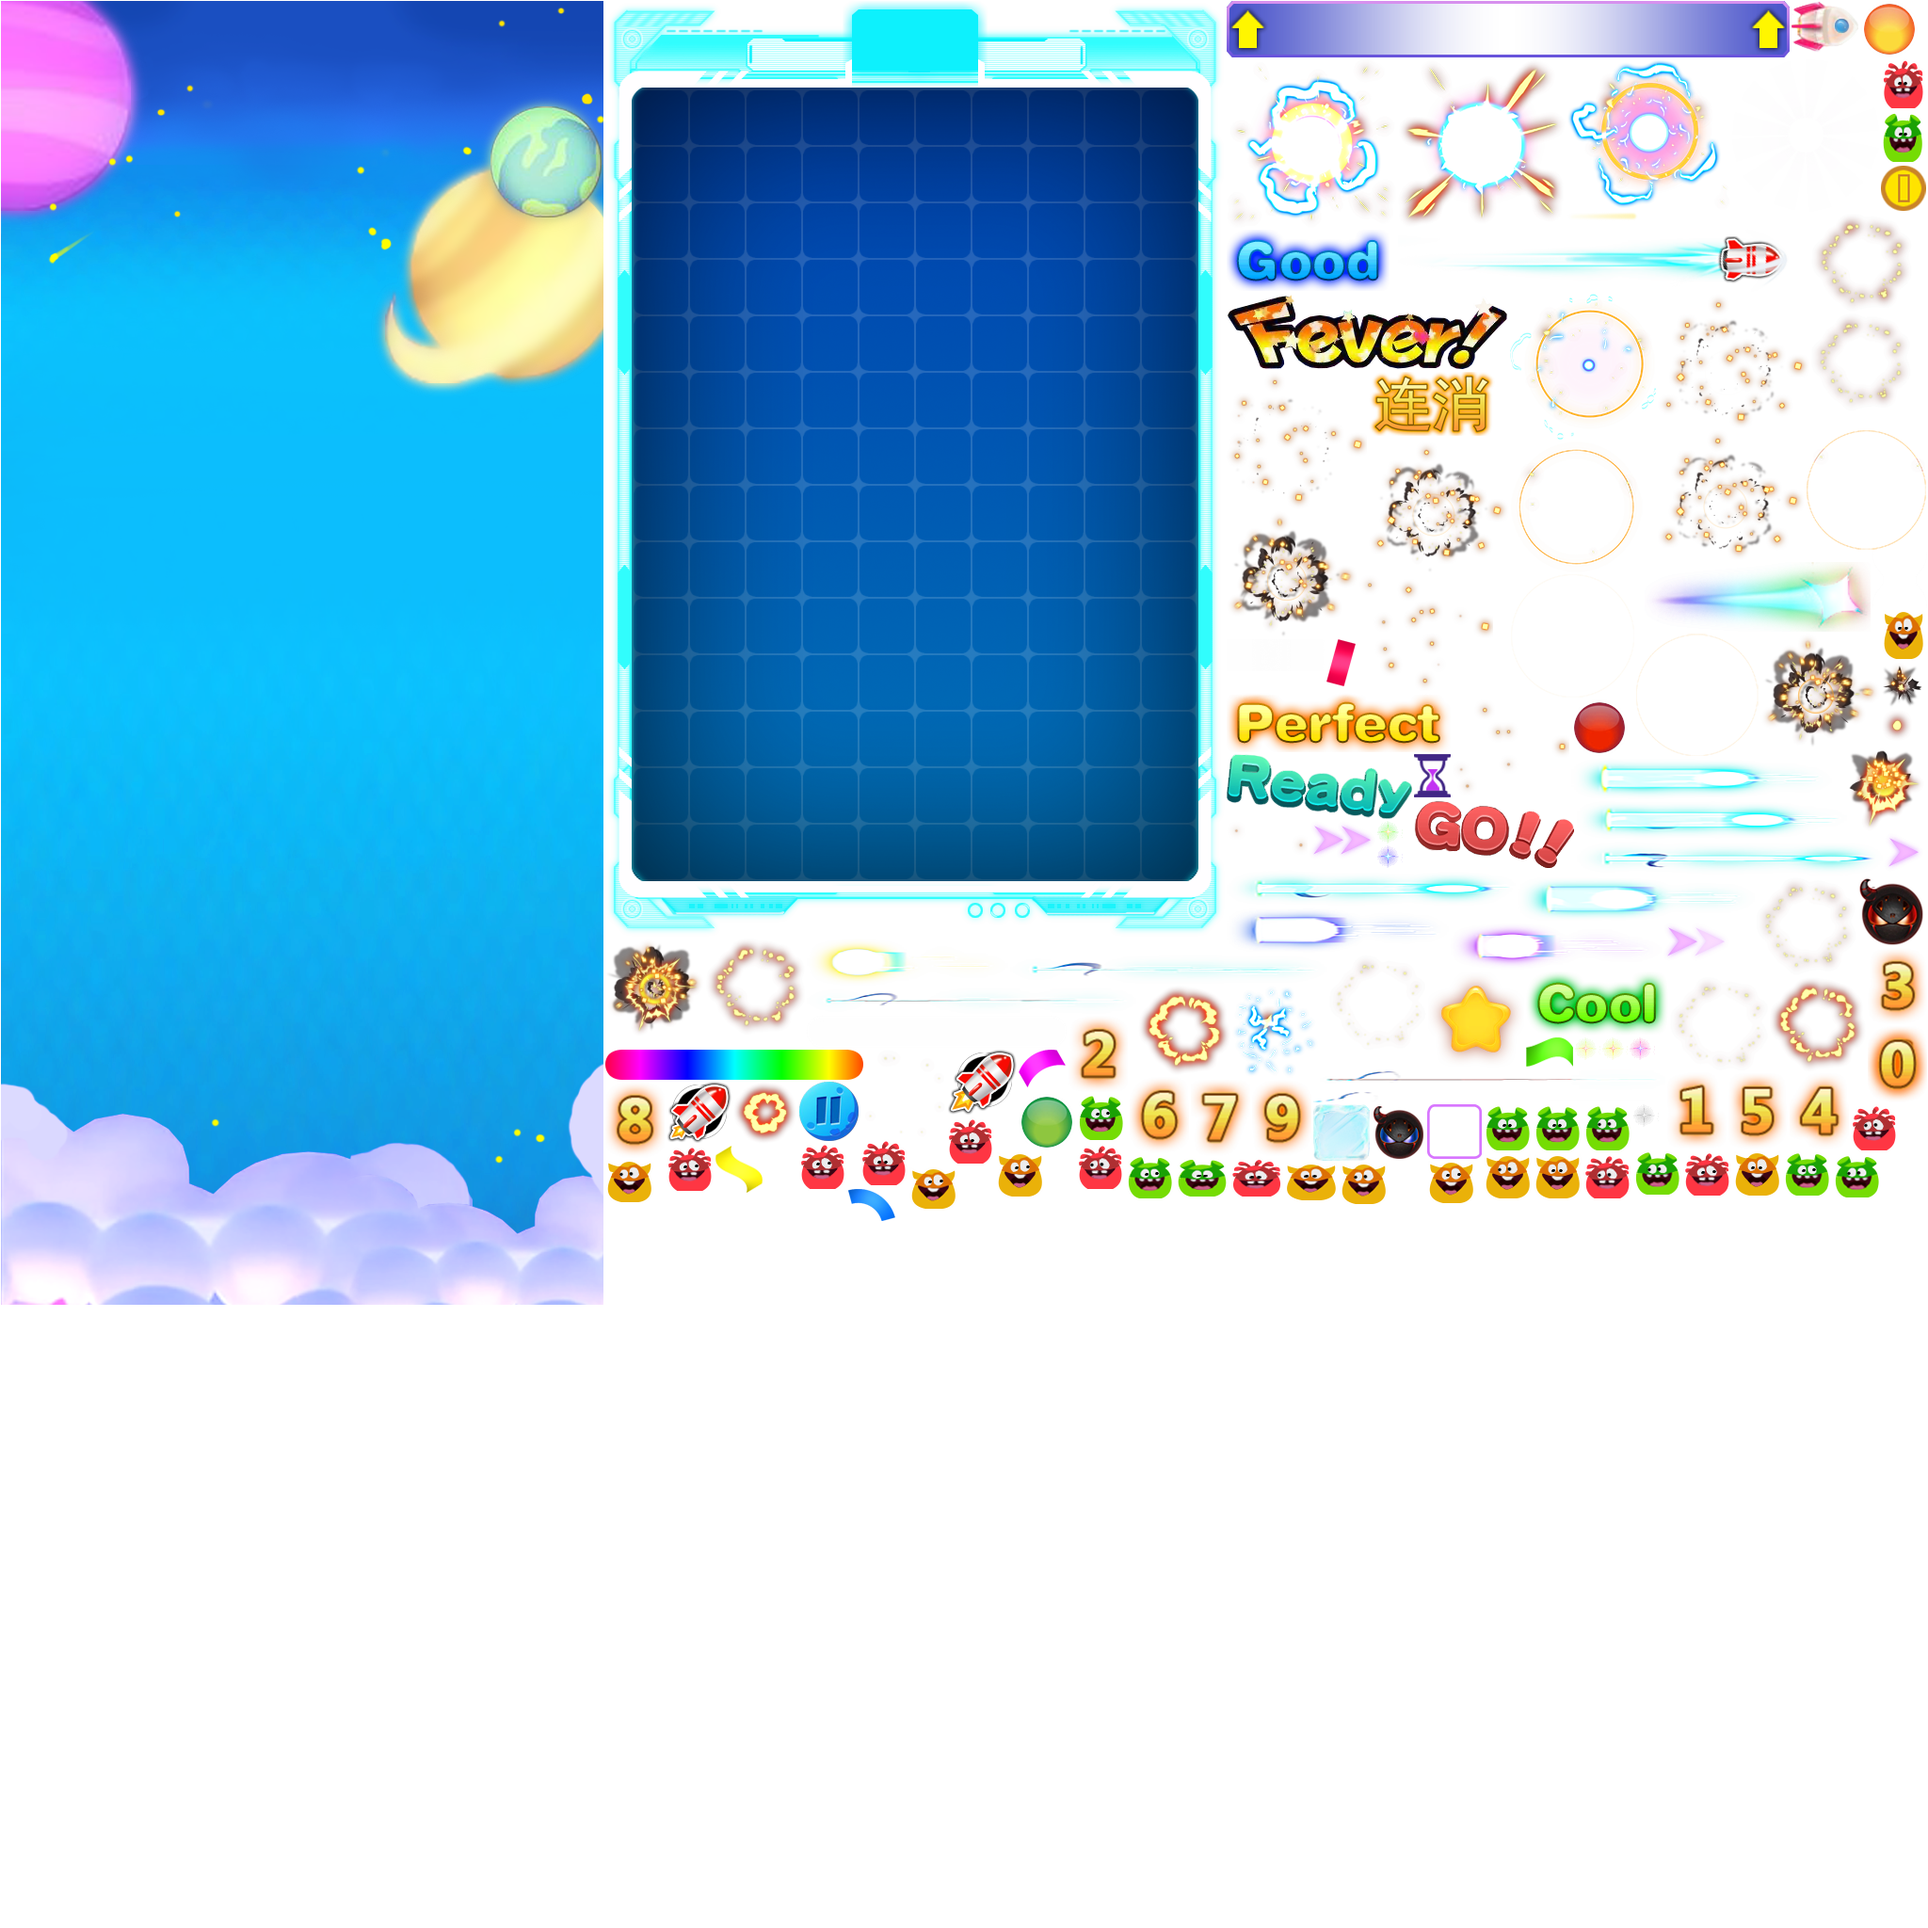
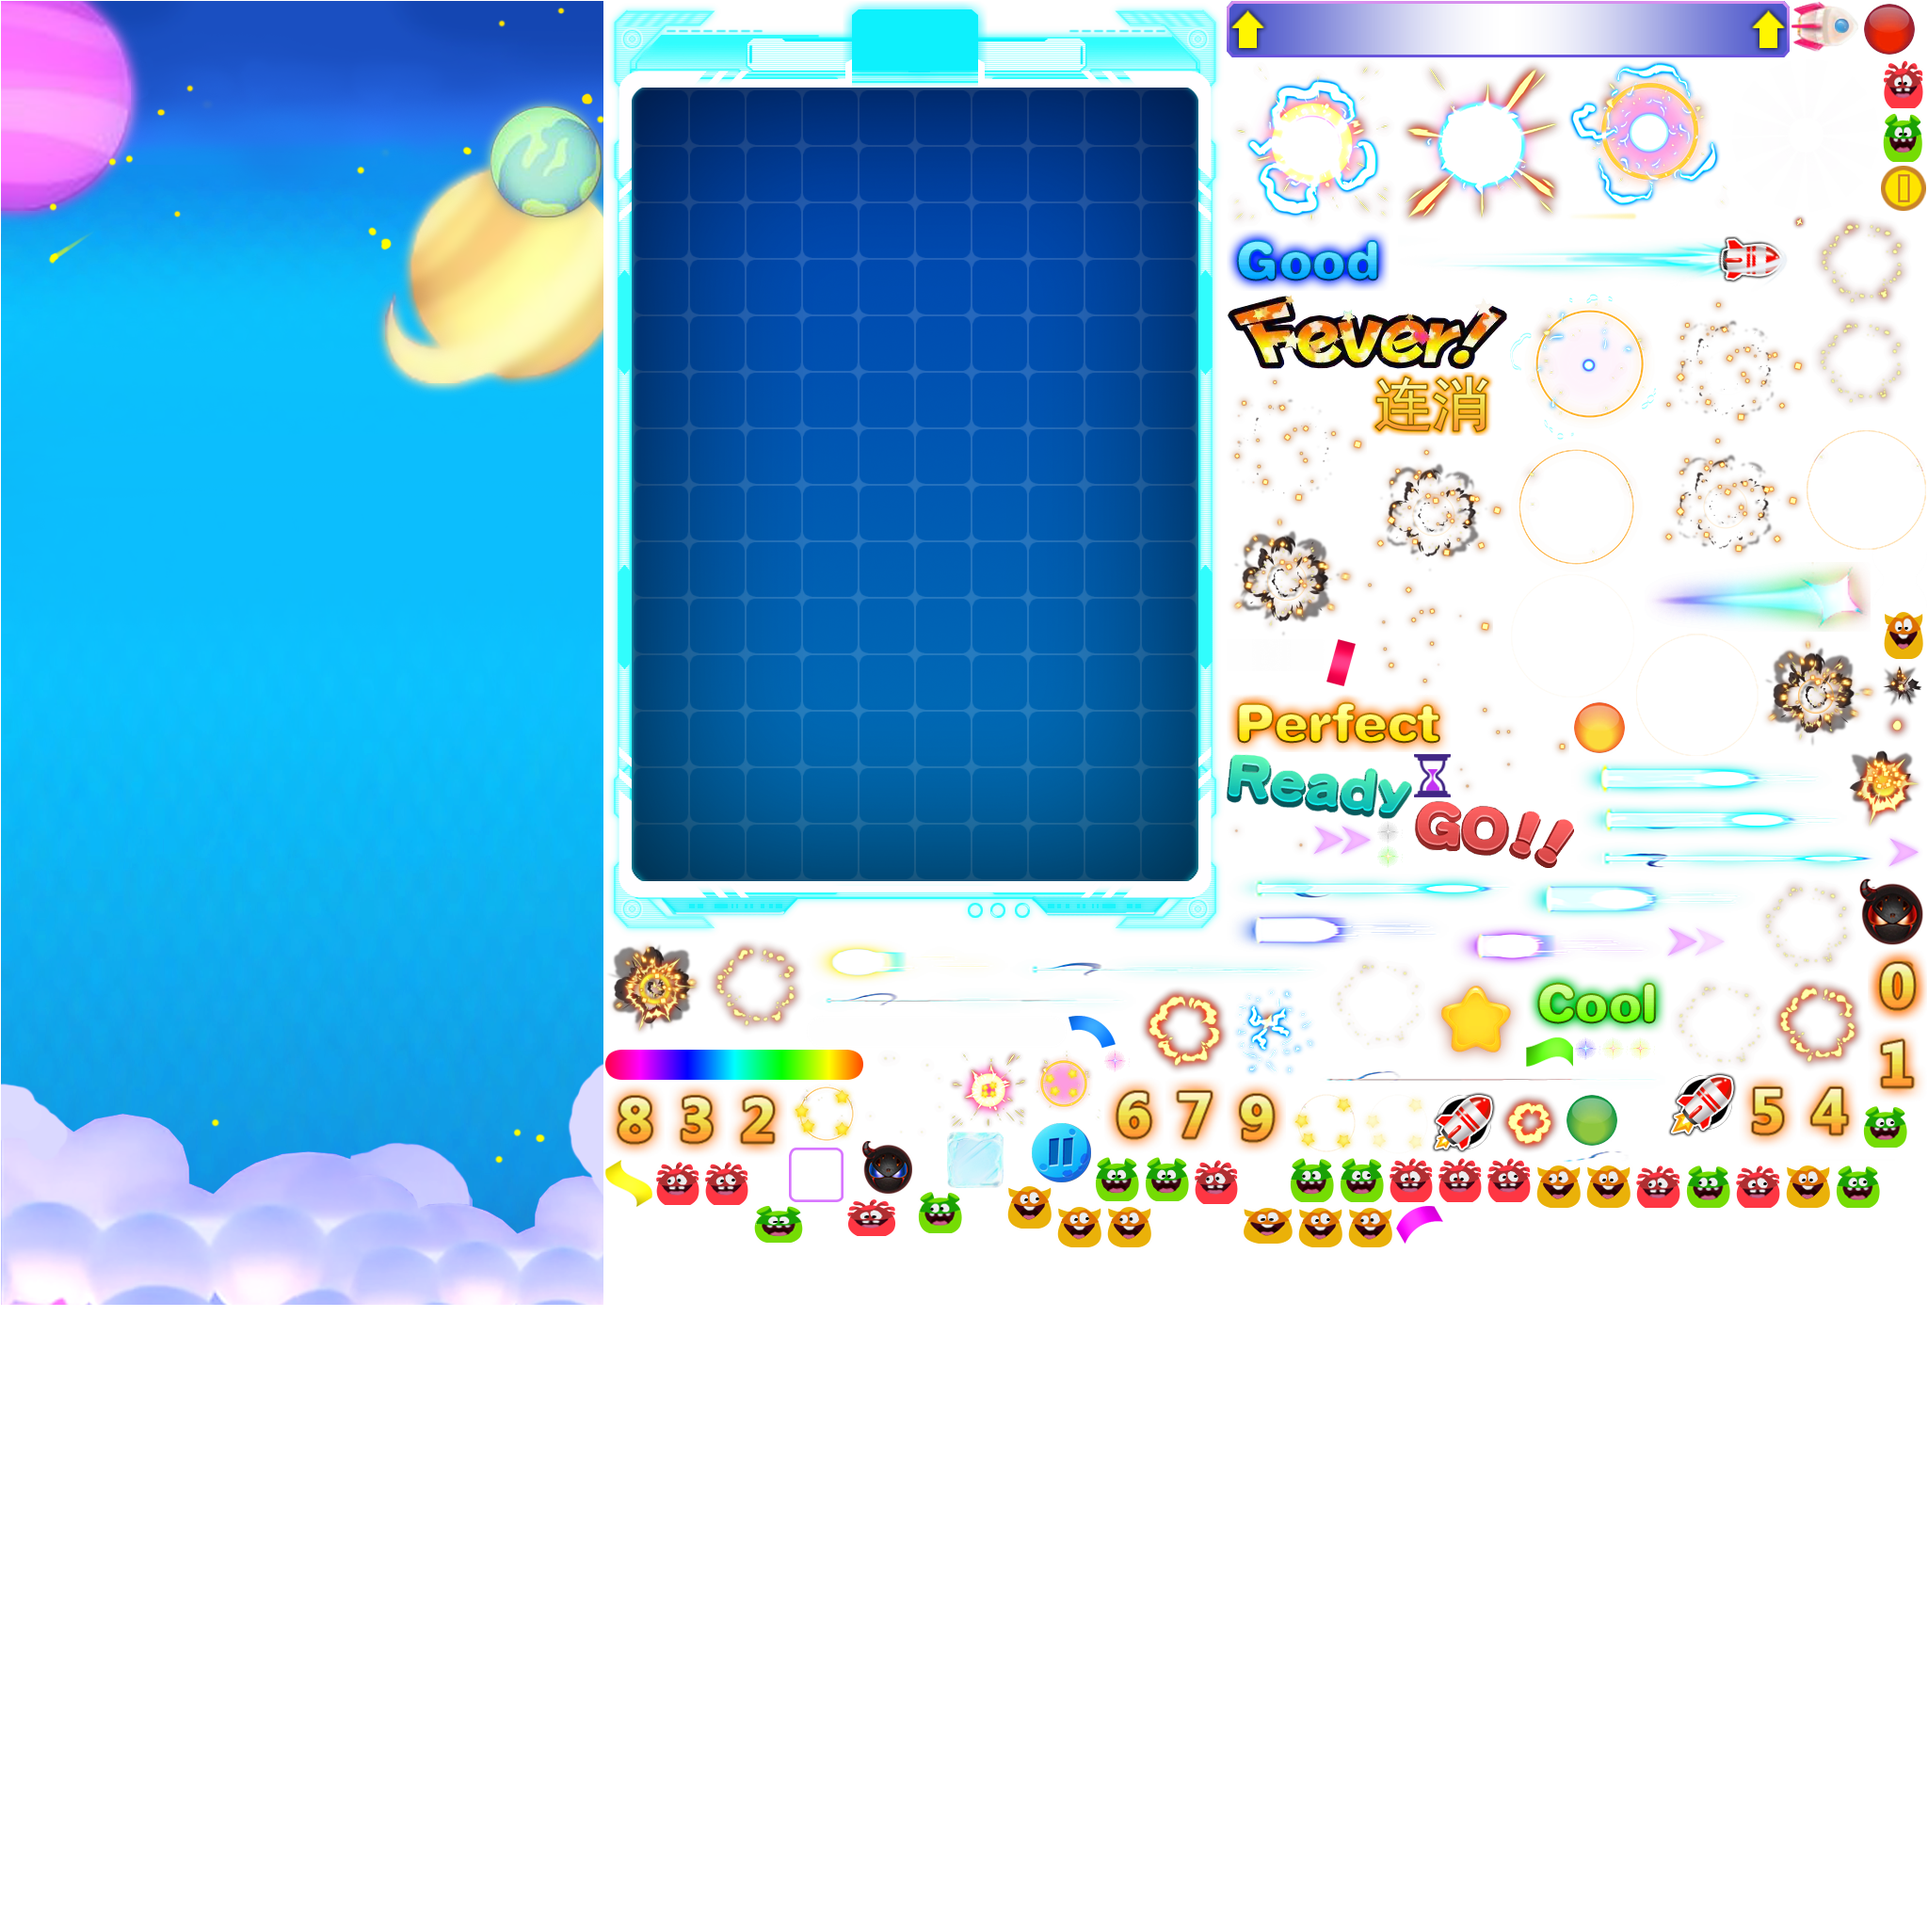
【小怪】小怪消除特效改成序列帧

Changed region(s): [[0.3125, 0.5, 1.0, 0.6562], [0.8125, 0.3438, 0.8438, 0.4062], [0.9688, 0.0, 1.0, 0.0312]]

diff --git a/PDProject/src/GameElement/SceneElement/SceneElementBase.ts b/PDProject/src/GameElement/SceneElement/SceneElementBase.ts
@@ -253,15 +253,26 @@ abstract class SceneElementBase
 
     protected PlayBoomEffect()
     {
-        var param = new PaPlayDBAnimationParam;
-        param.resName = "Pill_Boom";
-        param.animationName = "Pill_Boom";
-        // param.duration = 750;
-        param.playTimes = 1;
-        param.posX = Tools.ElementPosToGameStagePosX(this.posx);
-        param.posY = Tools.ElementPosToGameStagePosY(this.posy);
-        var event = new PlayProgramAnimationEvent();
-        event.param = param;
+        // var param = new PaPlayDBAnimationParam;
+        // param.resName = "Pill_Boom";
+        // param.animationName = "Pill_Boom";
+        // // param.duration = 750;
+        // param.playTimes = 1;
+        // param.scaleX = 2;
+        // param.scaleY = 2;
+        // param.posX = Tools.ElementPosToGameStagePosX(this.posx);
+        // param.posY = Tools.ElementPosToGameStagePosY(this.posy);
+        // var event = new PlayProgramAnimationEvent();
+        // event.param = param;
+        // GameMain.GetInstance().DispatchEvent(event);
+        var playEffectParam = new PaPlayFramesAnimParam()
+		playEffectParam.pos = new egret.Point(Tools.ElementPosToGameStagePosX(this.posx), Tools.ElementPosToGameStagePosY(this.posy));
+		playEffectParam.textNameSeq = Frame_Anim_Pill_Boom_Effect;
+		playEffectParam.interval = 100;
+		playEffectParam.times = 1;
+        playEffectParam.scale = new egret.Point(2,2);
+		var event = new PlayProgramAnimationEvent();
+        event.param = playEffectParam;
         GameMain.GetInstance().DispatchEvent(event);
     }
 

diff --git a/PDProject/src/GameConfig/GameConfig.ts b/PDProject/src/GameConfig/GameConfig.ts
@@ -56,4 +56,4 @@ const Frame_Anim_Virus_Yellow_Fever = ["Virus_Yellow_Fever1", "Virus_Yellow_Feve
 
 const Frame_Anim_Pill_Land_Effect = ["LuoDi_00000", "LuoDi_00001", "LuoDi_00002", "LuoDi_00003", 
                                 "LuoDi_00004", "LuoDi_00005", "LuoDi_00006", "LuoDi_00007", "LuoDi_00008", "LuoDi_00009", "LuoDi_00010"];
-                                             
+const Frame_Anim_Pill_Boom_Effect = ["Pill_Boom_01", "Pill_Boom_02", "Pill_Boom_03", "Pill_Boom_04", "Pill_Boom_05", "Pill_Boom_06"];           
